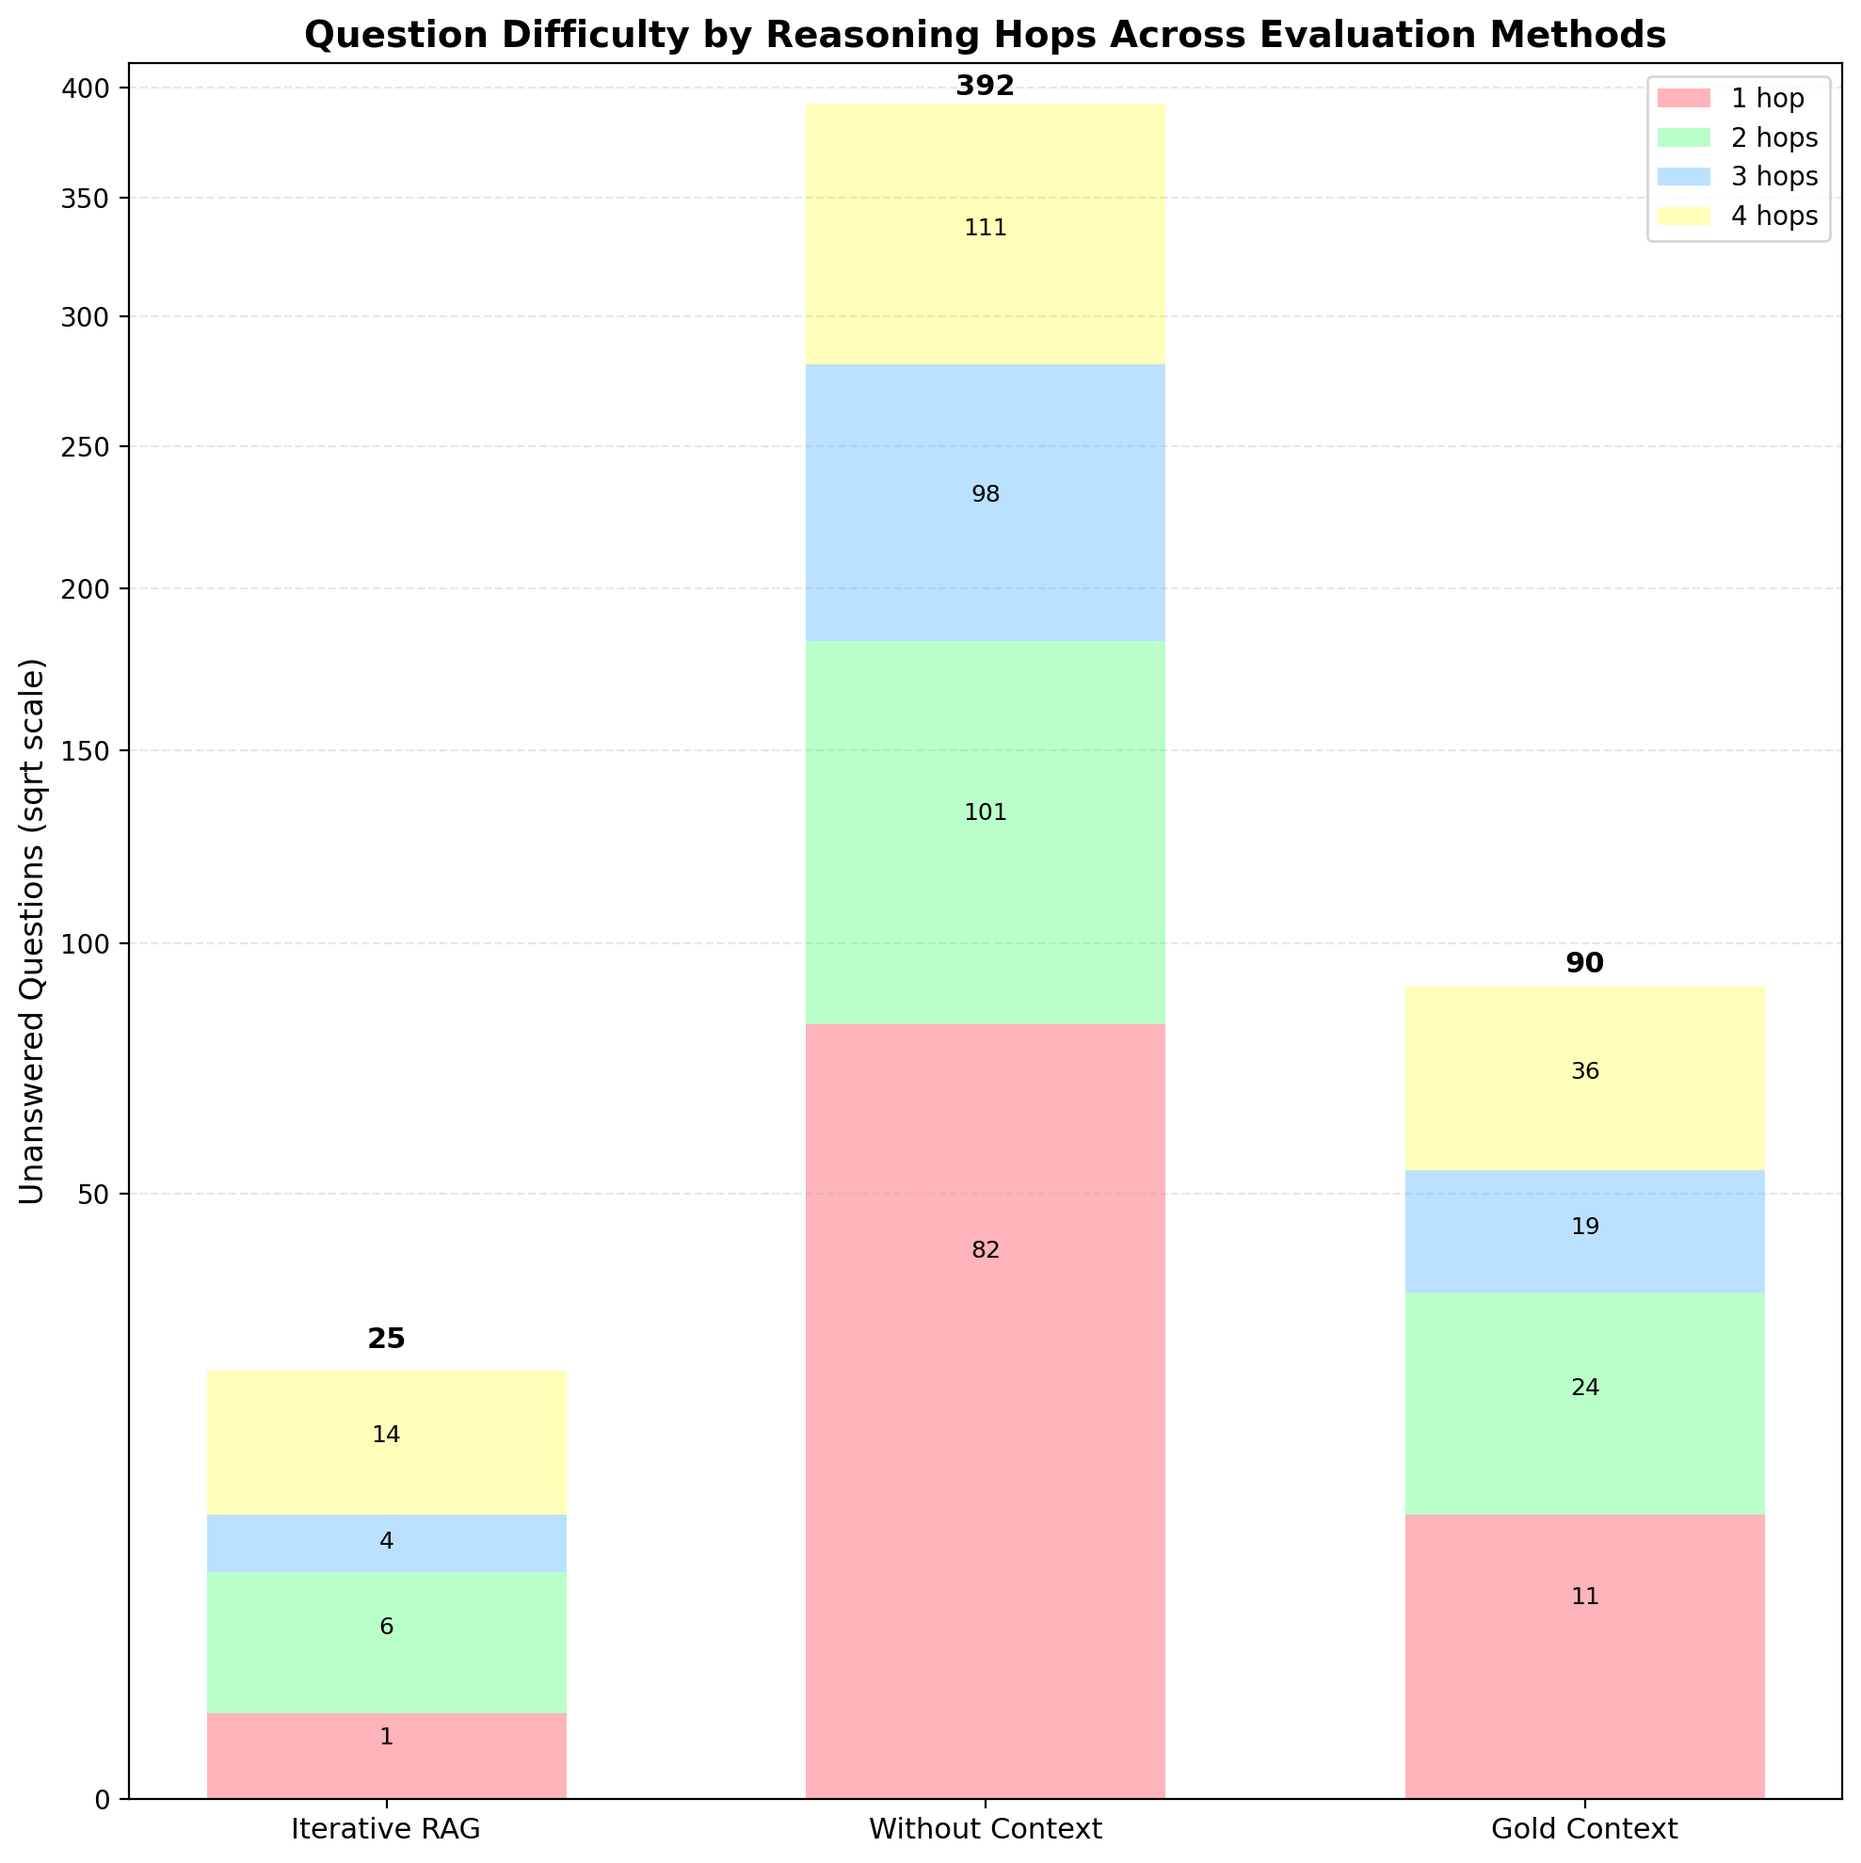
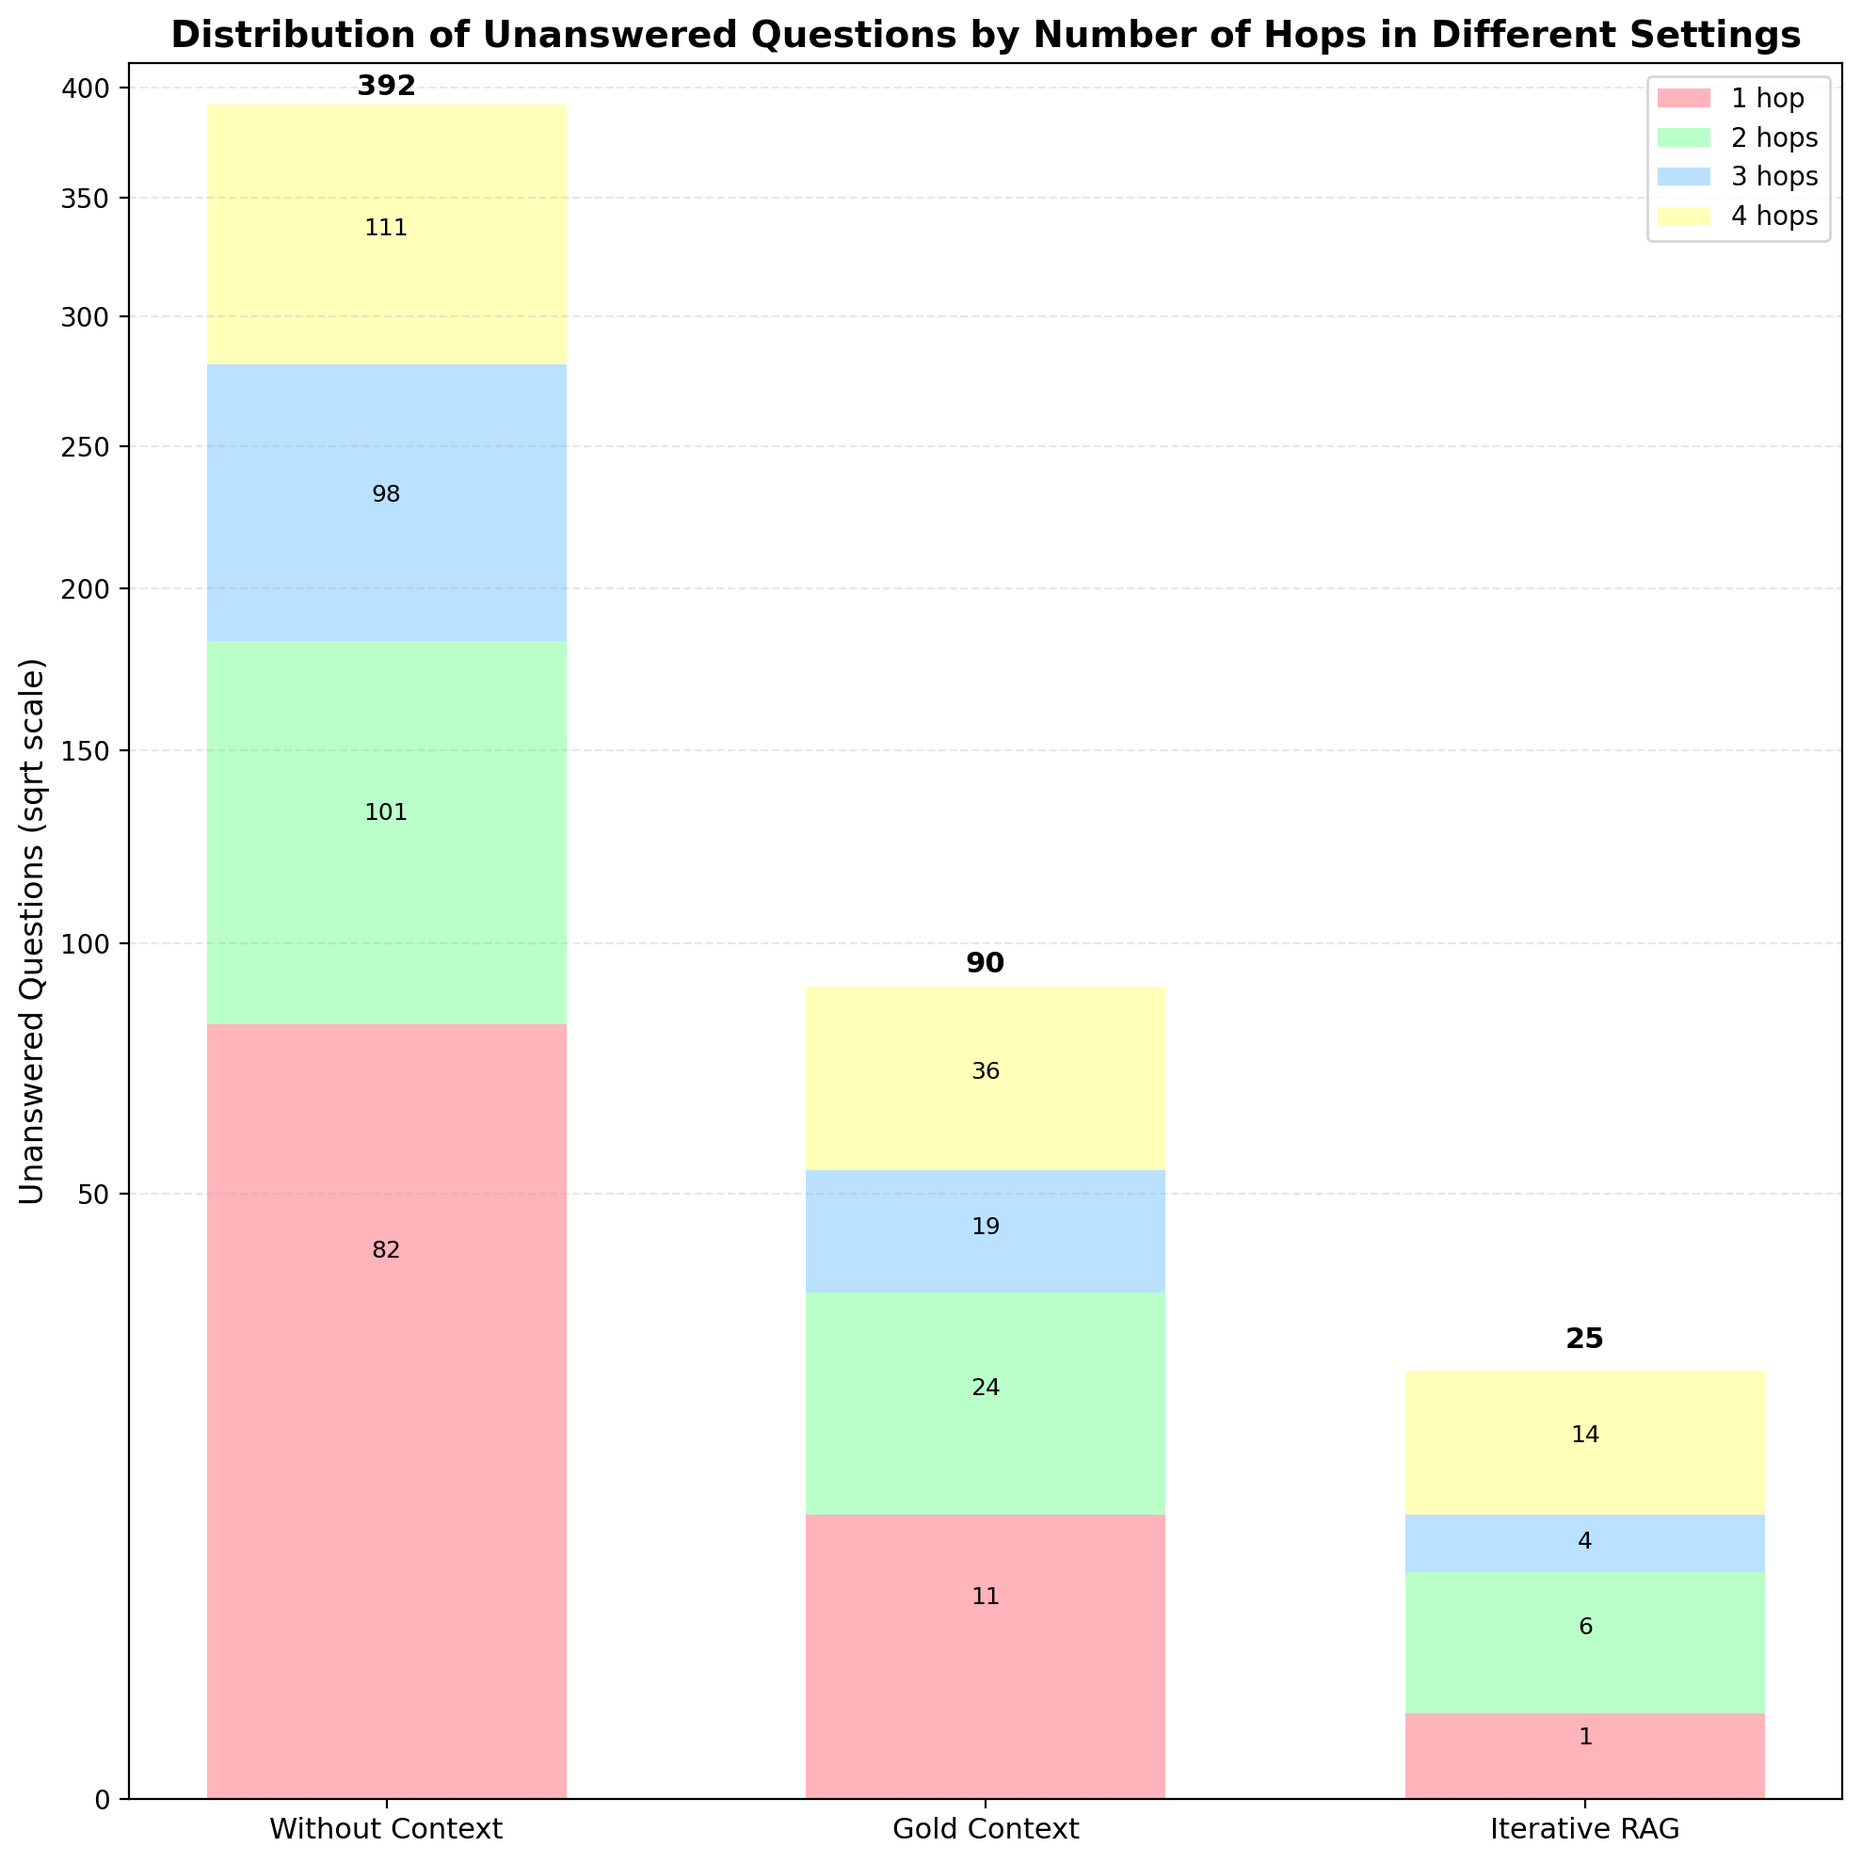
new plots added

diff --git a/src/analyzing/plot_knowledge_gap_analysis.py b/src/analyzing/plot_knowledge_gap_analysis.py
@@ -111,9 +111,12 @@ def categorize_questions(
         - 'retrieval': Wrong without context, correct with gold context
         - 'iterative': Wrong with gold context, correct with iterative RAG
         - 'gap': Wrong in all three conditions
+        
+    Note: Only categorizes questions that exist in ALL three conditions to ensure
+    fair comparison. Questions missing from any condition are excluded from analysis.
     """
-    # Get all questions (union of all three sets)
-    all_questions = set(no_ctx.keys()) | set(gold_ctx.keys()) | set(iterative.keys())
+    # Only consider questions that exist in all three conditions
+    common_questions = set(no_ctx.keys()) & set(gold_ctx.keys()) & set(iterative.keys())
     
     categories = {
         'intrinsic': set(),
@@ -122,10 +125,10 @@ def categorize_questions(
         'gap': set(),
     }
     
-    for q in all_questions:
-        no_correct = no_ctx.get(q, False)
-        gold_correct = gold_ctx.get(q, False)
-        iter_correct = iterative.get(q, False)
+    for q in common_questions:
+        no_correct = no_ctx[q]  # We know it exists
+        gold_correct = gold_ctx[q]
+        iter_correct = iterative[q]
         
         if no_correct:
             # If correct without context, it's intrinsic knowledge
@@ -212,7 +215,7 @@ def plot_knowledge_gap_waterfall(
                 fontsize=14, fontweight='bold', pad=20)
     ax.set_xticks(x)
     ax.set_xticklabels(models, rotation=20, ha='right', fontsize=10)
-    ax.legend(loc='upper left', framealpha=0.95, fontsize=10)
+    ax.legend(loc='upper left', bbox_to_anchor=(0, 1), framealpha=0.95, fontsize=9, ncol=2)
     ax.grid(axis='y', alpha=0.3, linestyle='--')
     
     # Add percentage labels
@@ -305,16 +308,21 @@ def plot_knowledge_gap_matrix(
 
 def plot_knowledge_gap_detailed_breakdown(
     models: List[str],
-    model_categories: Dict[str, Dict[str, Set[str]]],
+    model_data: Dict[str, Tuple[Dict[str, bool], Dict[str, bool], Dict[str, bool]]],
     out_path: Path,
 ) -> None:
     """
-    Create a detailed breakdown showing cumulative accuracy improvement.
+    Create a detailed breakdown showing actual accuracy across three conditions.
     
-    Shows three lines per model:
-    - No Context only (intrinsic)
-    - + Gold Context (intrinsic + retrieval)
-    - + Iterative RAG (intrinsic + retrieval + iterative)
+    Shows three bars per model with ACTUAL accuracies calculated as:
+    - No Context: correct_count / total_questions * 100
+    - Gold Context: correct_count / total_questions * 100
+    - Iterative RAG: correct_count / total_questions * 100
+    
+    Args:
+        models: List of model display names
+        model_data: Dict mapping model name to (no_ctx, gold_ctx, iterative) response dicts
+        out_path: Output path for the plot
     """
     fig, ax = plt.subplots(figsize=(max(14, len(models) * 1.2), 7))
     
@@ -323,28 +331,26 @@ def plot_knowledge_gap_detailed_breakdown(
     iter_acc = []
     
     for model in models:
-        cats = model_categories.get(model, {})
-        intrinsic = len(cats.get('intrinsic', set()))
-        retrieval = len(cats.get('retrieval', set()))
-        iterative = len(cats.get('iterative', set()))
-        gap = len(cats.get('gap', set()))
-        total = intrinsic + retrieval + iterative + gap
+        no_ctx, gold_ctx, iterative = model_data.get(model, ({}, {}, {}))
         
-        if total > 0:
-            no_ctx_acc.append(intrinsic / total * 100)
-            gold_ctx_acc.append((intrinsic + retrieval) / total * 100)
-            iter_acc.append((intrinsic + retrieval + iterative) / total * 100)
-        else:
-            no_ctx_acc.append(0)
-            gold_ctx_acc.append(0)
-            iter_acc.append(0)
+        # Calculate actual accuracies: correct / total * 100
+        total_questions = 1186  # Standard benchmark size
+        
+        no_ctx_correct = sum(1 for v in no_ctx.values() if v)
+        gold_ctx_correct = sum(1 for v in gold_ctx.values() if v)
+        iter_correct = sum(1 for v in iterative.values() if v)
+        
+        # Use actual count divided by benchmark size
+        no_ctx_acc.append((no_ctx_correct / total_questions * 100) if len(no_ctx) > 0 else 0)
+        gold_ctx_acc.append((gold_ctx_correct / total_questions * 100) if len(gold_ctx) > 0 else 0)
+        iter_acc.append((iter_correct / total_questions * 100) if len(iterative) > 0 else 0)
     
     x = np.arange(len(models))
     width = 0.25
     
-    bars1 = ax.bar(x - width, no_ctx_acc, width, label='No Context (Intrinsic)', color='#2ecc71', alpha=0.8)
-    bars2 = ax.bar(x, gold_ctx_acc, width, label='+ Gold Context (+ Retrieval)', color='#3498db', alpha=0.8)
-    bars3 = ax.bar(x + width, iter_acc, width, label='+ Iterative RAG (+ Iterative)', color='#f39c12', alpha=0.8)
+    bars1 = ax.bar(x - width, no_ctx_acc, width, label='No Context', color='#2ecc71', alpha=0.8)
+    bars2 = ax.bar(x, gold_ctx_acc, width, label='Gold Context', color='#3498db', alpha=0.8)
+    bars3 = ax.bar(x + width, iter_acc, width, label='Iterative RAG', color='#f39c12', alpha=0.8)
     
     # Add value labels
     for bars in [bars1, bars2, bars3]:
@@ -355,12 +361,98 @@ def plot_knowledge_gap_detailed_breakdown(
                        f'{height:.1f}%', ha='center', va='bottom', fontsize=8)
     
     ax.set_ylabel('Accuracy (%)', fontsize=12, fontweight='bold')
-    ax.set_title('Cumulative Accuracy Improvement by Method', fontsize=14, fontweight='bold', pad=20)
+    ax.set_title('Model Accuracy Across Different Contexts', fontsize=14, fontweight='bold', pad=20)
     ax.set_xticks(x)
     ax.set_xticklabels(models, rotation=20, ha='right', fontsize=10)
     ax.legend(loc='lower left', framealpha=0.95, fontsize=10)
     ax.grid(axis='y', alpha=0.3, linestyle='--')
     ax.set_ylim(0, 105)
+    
+    fig.tight_layout()
+    out_path.parent.mkdir(parents=True, exist_ok=True)
+    fig.savefig(out_path, dpi=300, bbox_inches='tight')
+    plt.close(fig)
+    print(f"✓ Saved: {out_path.name}")
+
+
+def plot_knowledge_gap_scatter(
+    models: List[str],
+    model_raw_data: Dict[str, Tuple[Dict[str, bool], Dict[str, bool], Dict[str, bool]]],
+    out_path: Path,
+) -> None:
+    """
+    Create a scatter plot showing relationship between no-context accuracy (x-axis)
+    and both gold-context and iterative RAG accuracy (y-axis).
+    
+    This shows how much models improve with context/retrieval.
+    """
+    fig, ax = plt.subplots(figsize=(12, 10))
+    
+    # Prepare data
+    no_ctx_accuracies = []
+    gold_ctx_accuracies = []
+    iterative_accuracies = []
+    
+    for model in models:
+        no_ctx, gold_ctx, iterative = model_raw_data[model]
+        
+        # Calculate accuracies
+        no_ctx_acc = sum(1 for v in no_ctx.values() if v) / 1186 * 100
+        gold_ctx_acc = sum(1 for v in gold_ctx.values() if v) / 1186 * 100
+        iter_acc = sum(1 for v in iterative.values() if v) / 1186 * 100
+        
+        no_ctx_accuracies.append(no_ctx_acc)
+        gold_ctx_accuracies.append(gold_ctx_acc)
+        iterative_accuracies.append(iter_acc)
+    
+    # Plot scatter points
+    scatter_gold = ax.scatter(no_ctx_accuracies, gold_ctx_accuracies, 
+                             s=200, alpha=0.7, color='#3498db', 
+                             edgecolors='black', linewidth=1.5,
+                             label='Gold Context', marker='o', zorder=3)
+    
+    scatter_iter = ax.scatter(no_ctx_accuracies, iterative_accuracies, 
+                             s=200, alpha=0.7, color='#f39c12',
+                             edgecolors='black', linewidth=1.5,
+                             label='Iterative RAG', marker='s', zorder=3)
+    
+    # Add model labels
+    for i, model in enumerate(models):
+        # Label for gold context (slightly offset up)
+        ax.annotate(model, 
+                   (no_ctx_accuracies[i], gold_ctx_accuracies[i]),
+                   xytext=(5, 5), textcoords='offset points',
+                   fontsize=8, alpha=0.8,
+                   bbox=dict(boxstyle='round,pad=0.3', facecolor='white', 
+                            edgecolor='#3498db', alpha=0.7))
+        
+        # Label for iterative (slightly offset down)
+        ax.annotate(model, 
+                   (no_ctx_accuracies[i], iterative_accuracies[i]),
+                   xytext=(5, -5), textcoords='offset points',
+                   fontsize=8, alpha=0.8,
+                   bbox=dict(boxstyle='round,pad=0.3', facecolor='white', 
+                            edgecolor='#f39c12', alpha=0.7))
+    
+    # Add diagonal reference line (y=x, no improvement)
+    min_acc = min(min(no_ctx_accuracies), min(gold_ctx_accuracies), min(iterative_accuracies))
+    max_acc = max(max(no_ctx_accuracies), max(gold_ctx_accuracies), max(iterative_accuracies))
+    ax.plot([min_acc, max_acc], [min_acc, max_acc], 'k--', alpha=0.3, 
+           linewidth=2, label='No Improvement (y=x)', zorder=1)
+    
+    # Styling
+    ax.set_xlabel('No Context Accuracy (%)', fontsize=12, fontweight='bold')
+    ax.set_ylabel('Accuracy with Context/RAG (%)', fontsize=12, fontweight='bold')
+    ax.set_title('Knowledge Gap Scatter: Impact of Context and Retrieval\n(Higher y-values show greater benefit from context/RAG)',
+                fontsize=14, fontweight='bold', pad=20)
+    ax.legend(loc='lower right', framealpha=0.95, fontsize=11)
+    ax.grid(True, alpha=0.3, linestyle='--')
+    
+    # Set reasonable axis limits with padding
+    x_padding = (max(no_ctx_accuracies) - min(no_ctx_accuracies)) * 0.1
+    y_padding = (max_acc - min_acc) * 0.1
+    ax.set_xlim(min(no_ctx_accuracies) - x_padding, max(no_ctx_accuracies) + x_padding)
+    ax.set_ylim(min_acc - y_padding, max_acc + y_padding)
     
     fig.tight_layout()
     out_path.parent.mkdir(parents=True, exist_ok=True)
@@ -434,6 +526,7 @@ def main() -> None:
     
     # Load data for each model
     model_categories: Dict[str, Dict[str, Set[str]]] = {}
+    model_raw_data: Dict[str, Tuple[Dict[str, bool], Dict[str, bool], Dict[str, bool]]] = {}
     
     for iterative_path, display in model_entries:
         print(f"  Processing: {display}")
@@ -442,6 +535,22 @@ def main() -> None:
         no_ctx = scan_context_dir(dir_no_ctx, display)
         gold_ctx = scan_context_dir(dir_gold_ctx, display)
         iterative = load_responses_by_question(iterative_path)
+        
+        # Store raw data for cumulative accuracy plot
+        model_raw_data[display] = (no_ctx, gold_ctx, iterative)
+        
+        # Debug: show counts for each condition
+        no_ctx_count = sum(1 for v in no_ctx.values() if v)
+        gold_ctx_count = sum(1 for v in gold_ctx.values() if v)
+        iter_count = sum(1 for v in iterative.values() if v)
+        
+        print(f"    No Context: {no_ctx_count}/{len(no_ctx)} correct ({no_ctx_count/1186*100:.2f}%)")
+        print(f"    Gold Context: {gold_ctx_count}/{len(gold_ctx)} correct ({gold_ctx_count/1186*100:.2f}%)")
+        print(f"    Iterative: {iter_count}/{len(iterative)} correct ({iter_count/1186*100:.2f}%)")
+        
+        # Check intersection
+        common = set(no_ctx.keys()) & set(gold_ctx.keys()) & set(iterative.keys())
+        print(f"    Common questions: {len(common)}")
         
         # Categorize questions
         categories = categorize_questions(no_ctx, gold_ctx, iterative)
@@ -463,11 +572,18 @@ def main() -> None:
         plots_dir / "knowledge_gap_matrix.png"
     )
     
-    # Plot 3: Detailed breakdown
+    # Plot 3: Detailed breakdown (using raw data for actual accuracies)
     plot_knowledge_gap_detailed_breakdown(
         model_order,
-        model_categories,
+        model_raw_data,
         plots_dir / "knowledge_gap_cumulative_accuracy.png"
+    )
+    
+    # Plot 4: Scatter plot showing relationship between no-context and with-context accuracy
+    plot_knowledge_gap_scatter(
+        model_order,
+        model_raw_data,
+        plots_dir / "knowledge_gap_scatter.png"
     )
     
     # Print summary

diff --git a/src/scripts/unanswered_by_hops.py b/src/scripts/unanswered_by_hops.py
@@ -175,7 +175,7 @@ def plot_stacked_bar_by_hops(
 
     # Customize the plot
     ax.set_ylabel('Unanswered Questions (sqrt scale)', fontsize=12)
-    ax.set_title('Question Difficulty by Reasoning Hops Across Evaluation Methods',
+    ax.set_title('Distribution of Unanswered Questions by Number of Hops in Different Settings',
                  fontsize=14, fontweight='bold')
     ax.set_xticks(x)
     ax.set_xticklabels(categories, fontsize=11)
@@ -207,7 +207,7 @@ def main() -> None:
         "Gold Context": report_root / "response-jsonl-with-context_unanswered.jsonl",
         "Iterative RAG": report_root / "responses_reverified_unanswered.jsonl",
     }
-    category_order = ["Iterative RAG", "Without Context", "Gold Context"]
+    category_order = ["Without Context", "Gold Context", "Iterative RAG"]
 
     # Load QA hop data
     qa_path = base / "docs" / "chemrxiv_qa.json"

diff --git a/src/analyzing/config.py b/src/analyzing/config.py
@@ -94,7 +94,7 @@ ITERATIVE_MODEL_ENTRIES = [
     ("responses_openrouter_anthropic_claude_sonnet_4_5_reasoning.jsonl", "Claude Sonnet 4.5"),
     ("responses_openrouter_google__gemini-2.5-pro_reverified.jsonl", "Gemini 2.5 Pro"),
     ("responses_openrouter_x-ai__grok-4-fast_reverified.jsonl", "Grok 4 Fast"),
-    ("responses_openrouter_z-ai__glm-4.6_reverified.jsonl", "GLM 4.6"),
+    # ("responses_openrouter_z-ai__glm-4.6_reverified.jsonl", "GLM 4.6"),  # Excluded from knowledge gap analysis
 ]
 
 ITERATIVE_MODEL_DISPLAY_NAMES = [display for _, display in ITERATIVE_MODEL_ENTRIES]
